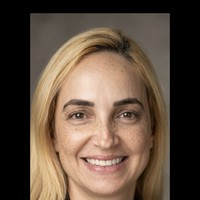
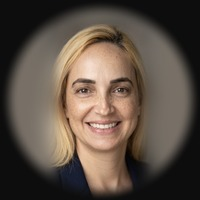
Add circular face photo to navbar and footer

diff --git a/index.html b/index.html
@@ -1718,7 +1718,10 @@
 <!-- ─── NAVBAR ─── -->
 <nav class="navbar">
   <div class="container navbar__inner">
-    <a href="#" class="navbar__logo">K.A.I<small class="navbar__logo-sub">by Kopel.AI</small></a>
+    <div style="display:inline-flex;align-items:center;gap:8px;">
+      <img src="Kopel_face.jpg" alt="עדי קופל" style="width:32px;height:32px;border-radius:50%;object-fit:cover;flex-shrink:0;box-shadow:0 0 0 1.5px rgba(0,0,0,0.12),0 2px 6px rgba(0,0,0,0.15);">
+      <a href="#" class="navbar__logo">K.A.I<small class="navbar__logo-sub">by Kopel.AI</small></a>
+    </div>
     <a href="https://wa.me/972XXXXXXXXX?text=%D7%94%D7%99%D7%99%20K.A.I%2C%20%D7%90%D7%A9%D7%9E%D7%97%20%D7%9C%D7%A9%D7%9E%D7%95%D7%A2%20%D7%90%D7%99%D7%9A%20AI%20%D7%99%D7%9B%D7%95%D7%9C%20%D7%9C%D7%A2%D7%96%D7%95%D7%A8%20%D7%9C%D7%A2%D7%A1%D7%A7%20%D7%A9%D7%9C%D7%99%21" class="navbar__cta" target="_blank" rel="noopener">
       <svg class="wa-icon" width="16" height="16" viewBox="0 0 24 24" fill="currentColor"><path d="M17.472 14.382c-.297-.149-1.758-.867-2.03-.967-.273-.099-.471-.148-.67.15-.197.297-.767.966-.94 1.164-.173.199-.347.223-.644.075-.297-.15-1.255-.463-2.39-1.475-.883-.788-1.48-1.761-1.653-2.059-.173-.297-.018-.458.13-.606.134-.133.298-.347.446-.52.149-.174.198-.298.298-.497.099-.198.05-.371-.025-.52-.075-.149-.669-1.612-.916-2.207-.242-.579-.487-.5-.669-.51-.173-.008-.371-.01-.57-.01-.198 0-.52.074-.792.372-.272.297-1.04 1.016-1.04 2.479 0 1.462 1.065 2.875 1.213 3.074.149.198 2.096 3.2 5.077 4.487.709.306 1.262.489 1.694.625.712.227 1.36.195 1.871.118.571-.085 1.758-.719 2.006-1.413.248-.694.248-1.289.173-1.413-.074-.124-.272-.198-.57-.347m-5.421 7.403h-.004a9.87 9.87 0 01-5.031-1.378l-.361-.214-3.741.982.998-3.648-.235-.374a9.86 9.86 0 01-1.51-5.26c.001-5.45 4.436-9.884 9.888-9.884 2.64 0 5.122 1.03 6.988 2.898a9.825 9.825 0 012.893 6.994c-.003 5.45-4.437 9.884-9.885 9.884m8.413-18.297A11.815 11.815 0 0012.05 0C5.495 0 .16 5.335.157 11.892c0 2.096.547 4.142 1.588 5.945L.057 24l6.305-1.654a11.882 11.882 0 005.683 1.448h.005c6.554 0 11.89-5.335 11.893-11.893a11.821 11.821 0 00-3.48-8.413z"/></svg>
       בואו נדבר